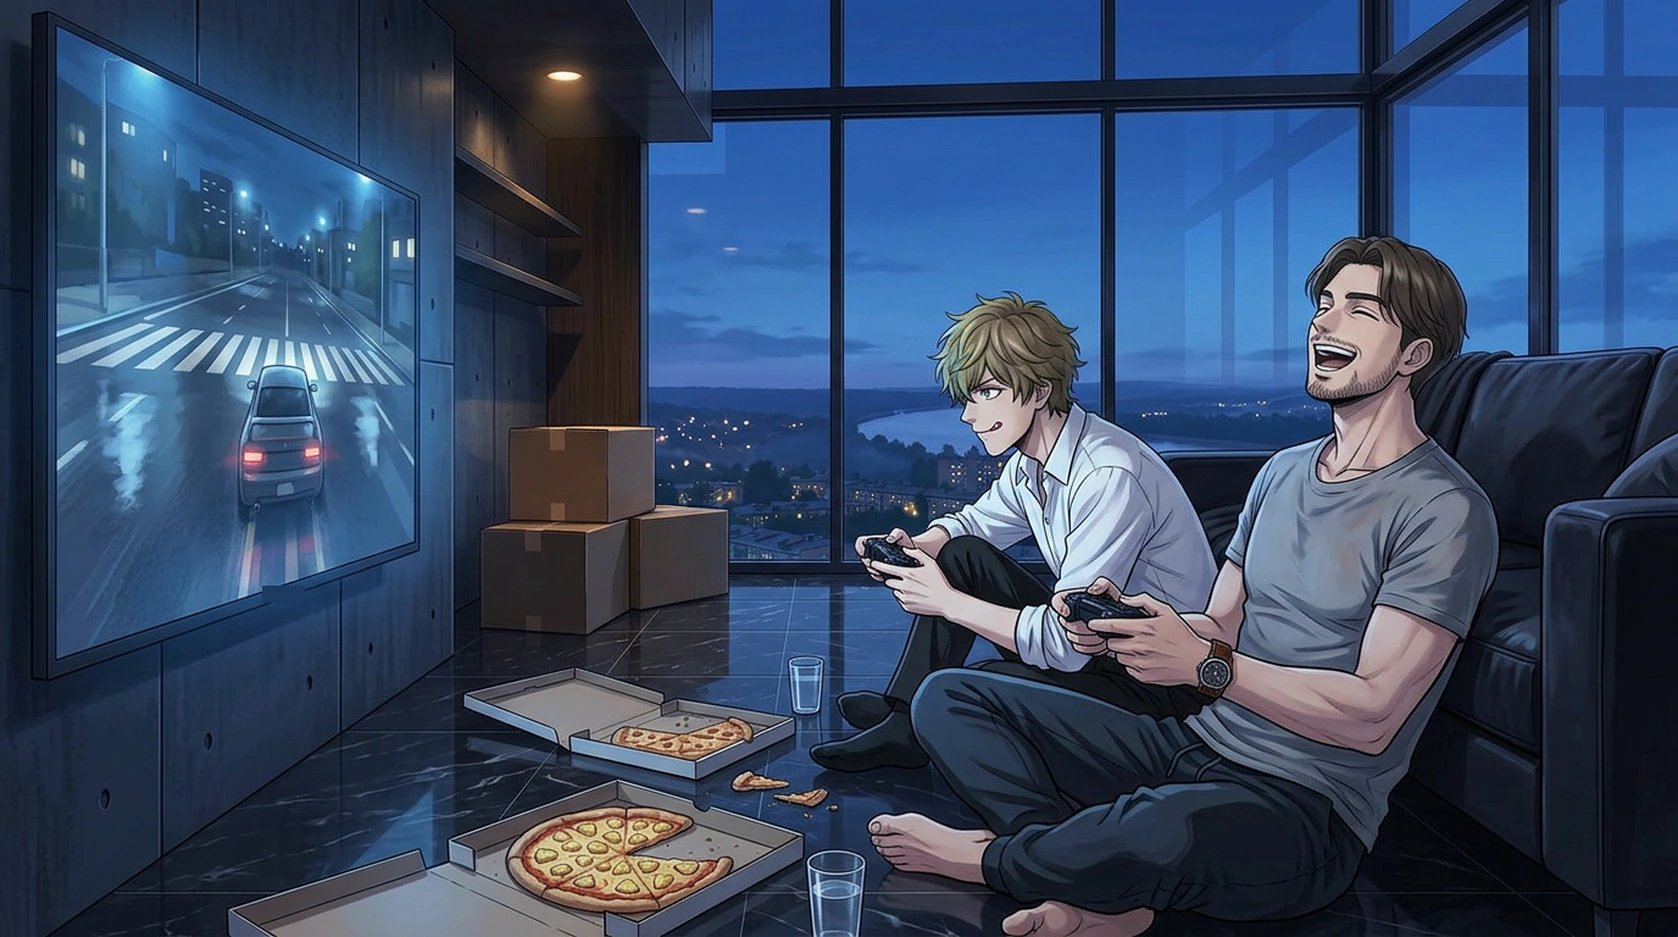
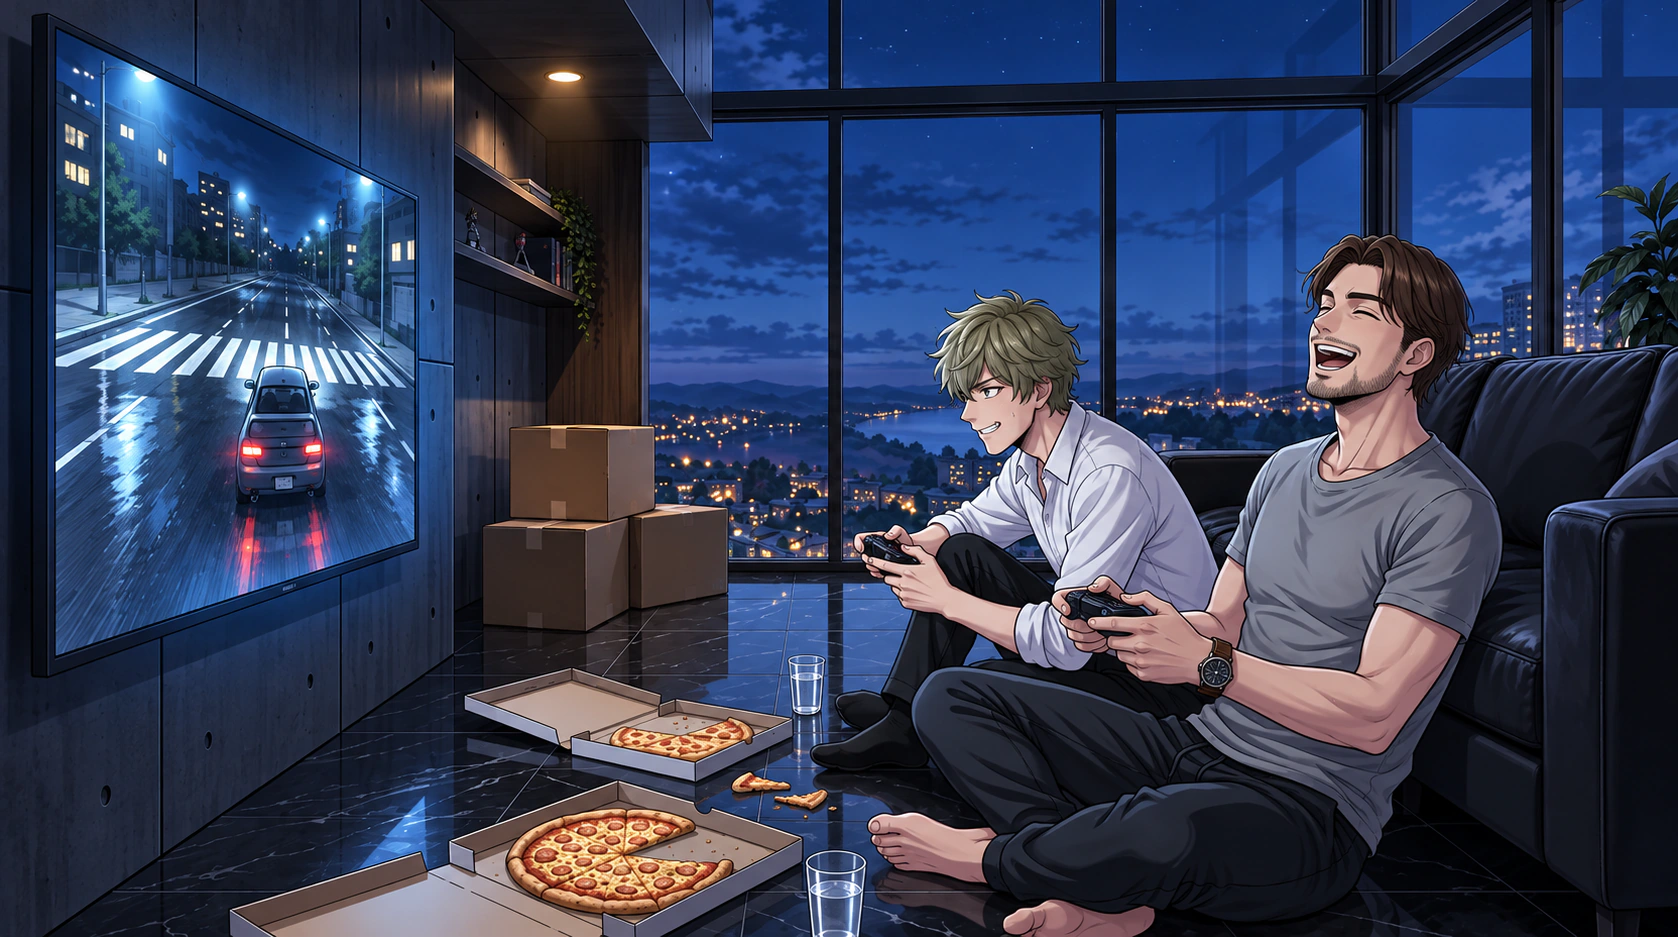
CG съёмки (День 4) и приставки у Артёма (День 5): финальные версии автора. ASSET_VER 20261103_59

diff --git a/index.html b/index.html
@@ -4,7 +4,7 @@
   <meta charset="UTF-8" />
   <meta name="viewport" content="width=device-width, initial-scale=1.0" />
   <title>Не смотри на небо</title>
-  <link rel="stylesheet" href="styles.css?v=20261103_58" />
+  <link rel="stylesheet" href="styles.css?v=20261103_59" />
 </head>
 <body>
   <div id="app">
@@ -16,7 +16,7 @@
           <feDisplacementMap in="SourceGraphic" in2="n" scale="2.2" xChannelSelector="R" yChannelSelector="G"/>
         </filter>
       </svg>
-      <img class="swag-logo-img" src="assets/ui/swag_logo.png?v=20261103_58" alt="$WAG Entertainment" draggable="false">
+      <img class="swag-logo-img" src="assets/ui/swag_logo.png?v=20261103_59" alt="$WAG Entertainment" draggable="false">
       <div class="swag-sub"><span class="swag-line"></span><span class="swag-star">✦</span><span class="swag-word">представляет</span><span class="swag-star">✦</span><span class="swag-line r"></span></div>
       <div class="swag-hint">Нажмите, чтобы пропустить</div>
     </div>
@@ -269,46 +269,46 @@
   </div>
 
   <!-- SCRIPT CHAPTERS -->
-  <script src="vn-config.js?v=20261103_58"></script>
-  <script src="vn-core.js?v=20261103_58"></script>
-  <script src="script/_registry.js?v=20261103_58"></script>
-  <script src="script/prologue_1_morning.js?v=20261103_58"></script>
-  <script src="script/prologue_2_city.js?v=20261103_58"></script>
-  <script src="script/prologue_3_barbershop.js?v=20261103_58"></script>
-  <script src="script/prologue_4_depot.js?v=20261103_58"></script>
-  <script src="script/prologue_5_crash.js?v=20261103_58"></script>
-  <script src="script/day1_1_mirael.js?v=20261103_58"></script>
-  <script src="script/day1_2_kitchen.js?v=20261103_58"></script>
-  <script src="script/day1_3_valeria.js?v=20261103_58"></script>
-  <script src="script/day1_4_bridge.js?v=20261103_58"></script>
-  <script src="script/day1_5_taya.js?v=20261103_58"></script>
-  <script src="script/day2_1_quit.js?v=20261103_58"></script>
-  <script src="script/day2_2_shift.js?v=20261103_58"></script>
-  <script src="script/day2_3_zero.js?v=20261103_58"></script>
-  <script src="script/day2_4_walk.js?v=20261103_58"></script>
-  <script src="script/day3_1_office.js?v=20261103_58"></script>
-  <script src="script/day3_2_nika.js?v=20261103_58"></script>
-  <script src="script/day3_3_books.js?v=20261103_58"></script>
-  <script src="script/day3_3_home.js?v=20261103_58"></script>
-  <script src="script/day3_4_nika_night.js?v=20261103_58"></script>
-  <script src="script/day4_1_free.js?v=20261103_58"></script>
-  <script src="script/day4_1b_film.js?v=20261103_58"></script>
-  <script src="script/day4_2_barbershop.js?v=20261103_58"></script>
-  <script src="script/day4_2b_cake.js?v=20261103_58"></script>
-  <script src="script/day4_3_cuckoo.js?v=20261103_58"></script>
-  <script src="script/day4_3_home.js?v=20261103_58"></script>
-  <script src="script/day5_0_bike.js?v=20261103_58"></script>
-  <script src="script/day5_0b_market.js?v=20261103_58"></script>
-  <script src="script/day5_1_artyom.js?v=20261103_58"></script>
-  <script src="script/day5_2_elevator.js?v=20261103_58"></script>
-  <script src="script/day5_3_night.js?v=20261103_58"></script>
-  <script src="script/day6_1_morning.js?v=20261103_58"></script>
-  <script src="script/day6_2_squeeze.js?v=20261103_58"></script>
-  <script src="script/day6_2b_bureau.js?v=20261103_58"></script>
-  <script src="script/day6_3_taya.js?v=20261103_58"></script>
-  <script src="script/day7_0_river.js?v=20261103_58"></script>
-  <script src="script/day7_1_voices.js?v=20261103_58"></script>
-  <script src="script/day7_2_stairs.js?v=20261103_58"></script>
-  <script src="engine.js?v=20261103_58"></script>
+  <script src="vn-config.js?v=20261103_59"></script>
+  <script src="vn-core.js?v=20261103_59"></script>
+  <script src="script/_registry.js?v=20261103_59"></script>
+  <script src="script/prologue_1_morning.js?v=20261103_59"></script>
+  <script src="script/prologue_2_city.js?v=20261103_59"></script>
+  <script src="script/prologue_3_barbershop.js?v=20261103_59"></script>
+  <script src="script/prologue_4_depot.js?v=20261103_59"></script>
+  <script src="script/prologue_5_crash.js?v=20261103_59"></script>
+  <script src="script/day1_1_mirael.js?v=20261103_59"></script>
+  <script src="script/day1_2_kitchen.js?v=20261103_59"></script>
+  <script src="script/day1_3_valeria.js?v=20261103_59"></script>
+  <script src="script/day1_4_bridge.js?v=20261103_59"></script>
+  <script src="script/day1_5_taya.js?v=20261103_59"></script>
+  <script src="script/day2_1_quit.js?v=20261103_59"></script>
+  <script src="script/day2_2_shift.js?v=20261103_59"></script>
+  <script src="script/day2_3_zero.js?v=20261103_59"></script>
+  <script src="script/day2_4_walk.js?v=20261103_59"></script>
+  <script src="script/day3_1_office.js?v=20261103_59"></script>
+  <script src="script/day3_2_nika.js?v=20261103_59"></script>
+  <script src="script/day3_3_books.js?v=20261103_59"></script>
+  <script src="script/day3_3_home.js?v=20261103_59"></script>
+  <script src="script/day3_4_nika_night.js?v=20261103_59"></script>
+  <script src="script/day4_1_free.js?v=20261103_59"></script>
+  <script src="script/day4_1b_film.js?v=20261103_59"></script>
+  <script src="script/day4_2_barbershop.js?v=20261103_59"></script>
+  <script src="script/day4_2b_cake.js?v=20261103_59"></script>
+  <script src="script/day4_3_cuckoo.js?v=20261103_59"></script>
+  <script src="script/day4_3_home.js?v=20261103_59"></script>
+  <script src="script/day5_0_bike.js?v=20261103_59"></script>
+  <script src="script/day5_0b_market.js?v=20261103_59"></script>
+  <script src="script/day5_1_artyom.js?v=20261103_59"></script>
+  <script src="script/day5_2_elevator.js?v=20261103_59"></script>
+  <script src="script/day5_3_night.js?v=20261103_59"></script>
+  <script src="script/day6_1_morning.js?v=20261103_59"></script>
+  <script src="script/day6_2_squeeze.js?v=20261103_59"></script>
+  <script src="script/day6_2b_bureau.js?v=20261103_59"></script>
+  <script src="script/day6_3_taya.js?v=20261103_59"></script>
+  <script src="script/day7_0_river.js?v=20261103_59"></script>
+  <script src="script/day7_1_voices.js?v=20261103_59"></script>
+  <script src="script/day7_2_stairs.js?v=20261103_59"></script>
+  <script src="engine.js?v=20261103_59"></script>
 </body>
 </html>

diff --git a/engine.js b/engine.js
@@ -1,6 +1,6 @@
 // ДВИЖОК ВИЗУАЛЬНОЙ НОВЕЛЛЫ «НЕ СМОТРИ НА НЕБО» ($WAG ENTERTAINMENT)
 (function () {
-  const ASSET_VER = "20261103_58";
+  const ASSET_VER = "20261103_59";
 
   function withVer(url) {
     if (!url) return "";

diff --git a/docs/production/assets.md b/docs/production/assets.md
@@ -248,8 +248,8 @@
 | `cg_d3_balcony_wings.webp` | Ночной балкон. Мира-ангел в дверях, две пары крыльев раскрыты, полотенце висит на крыле. Ника, которую только что втащили обратно, стоит у перил и смотрит на неё | day3_4_nika_night, с «Ника вцепилась в перила…» до «Мира не улыбнулась. Но крылья сложила…» |
 | `cg_d4_lemon.webp` | Вечерняя кухня, вид с места Саши. Мира в человеческом облике, в Дашином платье, кусает половинку лимона, лицо сморщено. На столе макароны с сосисками и мамина тетрадь с ручкой | day4_3_home, «После ужина Саша разрезал лимон» и «Лицо у неё сделалось ровно то самое» |
 | `cg_d5_lilac_crash.webp` | Утро на тихой улице. Мира в человеческом облике сидит в кусте сирени, скрестив руки, лицо оскорблённое; велосипед лежит на боку, Саша бежит к ней | day5_0_bike, с «Саша добежал…» до «Отец тоже отпустил…» |
-| `cg_d4_foil_headlights.webp` | Студенческая съёмка на набережной в полдень: режиссёр в панаме с разделочной доской, камера на треноге, конусы, Петя (долговязый, черноволосый, в очках и чужой зелёной курьерской куртке, без короба) на велосипеде, бежевая легковушка, парень с «журавлём» из швабры бьёт фольгой солнце Пете в лицо. Саша в рубашке, с бинтами на ладонях, стоит у конусов со своим велосипедом и смотрит на дубль. Без дождевика и короба: он больше не курьер (сгенерирован 03.11, переделан по замечанию автора, ждёт доводки) | day4_1b_film, три узла от «поймал солнце куском фольги» до «Саша смотрел на фольгу» |
-| `cg_d5_console.webp` | Вечер в квартире Артёма: Саша и Артём на полу у чёрного дивана с джойстиками, экран во всю стену с ночными гонками и зеброй, две коробки пиццы (одна с ананасами), за панорамным окном река и огни. Артём в домашнем: растянутая серая футболка, треники, босиком, часы на левой руке (сгенерирован 03.11, ждёт доводки автора) | day5_1_artyom, от «Экран во всю стену наконец пригодился» до «Хорошо, что ждут» |
+| `cg_d4_foil_headlights.webp` | Студенческая съёмка на набережной в полдень: режиссёр в панаме с разделочной доской, камера на треноге, конусы, Петя (долговязый, черноволосый, в очках и чужой зелёной курьерской куртке, без короба) на велосипеде, бежевая легковушка, парень с «журавлём» из швабры бьёт фольгой солнце Пете в лицо. Саша в рубашке, с бинтами на ладонях, стоит у конусов со своим велосипедом и смотрит на дубль. Без дождевика и короба: он больше не курьер. Финал автора 03.11 (`filming.png`) | day4_1b_film, три узла от «поймал солнце куском фольги» до «Саша смотрел на фольгу» |
+| `cg_d5_console.webp` | Вечер в квартире Артёма: Саша и Артём на полу у чёрного дивана с джойстиками, экран во всю стену с ночными гонками и зеброй, две коробки пиццы, одна почти пустая (по тексту первой доели ананасовую), за панорамным окном река и огни. Артём в домашнем: серая футболка, треники, босиком, часы на левой руке. Финал автора 03.11 (`artem_alex_playing.png`) | day5_1_artyom, от «Экран во всю стену наконец пригодился» до «Хорошо, что ждут» |
 | `cg_d5_mirror_lift.webp` | Застрявший лифт. Ника сидит на полу у зеркальной стенки, обняв папку, Саша стоит; в зеркалах одни Саши, на табло красный прочерк | day5_2_elevator, с «Ника сползла по зеркальной стенке…» до «Ждите.» |
 
 ### Лист устава на латыни (03.11, идея автора)

diff --git a/art/cg_drafts/README.md b/art/cg_drafts/README.md
@@ -18,8 +18,10 @@
 | `cg_d4_lemon.webp` | `mirael_lemon.png` | day4_3_home · «После ужина Саша разрезал лимон» и «Лицо у неё сделалось ровно то самое». Реплика про крылья отделена и идёт уже со спрайтом ангела |
 | `cg_d5_lilac_crash.webp` | `mirael_fall.png` | day5_0_bike · с «Саша добежал…» до «Отец тоже отпустил…» |
 | `cg_d5_mirror_lift.webp` | `alex_nika_elevator.png` | day5_2_elevator · с «Ника сползла по зеркальной стенке…» до «Ждите.» Вокруг CG фон кабины `bg_elevator_glitch`: от остановки лифта до кнопки «—» |
+| `cg_d4_foil_headlights.webp` | `filming.png` | day4_1b_film · с «Парень с микрофоном на палке от швабры поймал солнце…» до «Саша смотрел на фольгу». Петя черноволосый, в очках и зелёной куртке; Саша в рубашке и с бинтами стоит со своим велосипедом |
+| `cg_d5_console.webp` | `artem_alex_playing.png` | day5_1_artyom · с «Экран во всю стену наконец пригодился» до «Хорошо, что ждут». Единственный CG с Артёмом, по просьбе автора |
 
-Черновики этих четырёх удалены, финалы лежат в `assets/backgrounds/`. Исходные PNG автора остались в истории git: `git checkout 0dbbaab -- assets/backgrounds/<id>.png`.
+Черновики первых четырёх удалены, финалы лежат в `assets/backgrounds/`. Исходные PNG автора остались в истории git: `git checkout 0dbbaab -- assets/backgrounds/<id>.png`.
 
 ## Черновики, которые автор пока не брал
 
@@ -31,12 +33,12 @@
 
 ## В очереди
 
-`cg_d3_curb_problem`, `cg_d4_foil_headlights`, `cg_d4_cuckoo`, `cg_d6_haircut`, `cg_d7_river_lev`, `cg_d7_chrysanthemums`, `cg_d7_thermos_step`, `cg_d7_mira_door`, `cg_d7_valeria_chess`, `cg_d7_lena_awning_storm`, `cg_d7_taya_midnight`.
+`cg_d3_curb_problem`, `cg_d4_cuckoo`, `cg_d6_haircut`, `cg_d7_river_lev`, `cg_d7_chrysanthemums`, `cg_d7_thermos_step`, `cg_d7_mira_door`, `cg_d7_valeria_chess`, `cg_d7_lena_awning_storm`, `cg_d7_taya_midnight`.
 
 ## Что держать в кадре
 
 - Облик Миры берётся по спрайту на соседних узлах. С крыльями она в своём длинном белом платье с открытыми плечами, как на спрайте ангела и в `cg_first_coffee`, крыльев две пары. В Дашином платье с голубой лентой она только в человеческом облике, без крыльев.
 - Уши у Миры заострённые в обоих обликах, как на спрайтах. В человеческом облике их можно спрятать под волосы (`cg_river_walk`, `cg_d4_lemon`) или оставить на виду (`cg_d5_lilac_crash`).
 - Ника не отражается в зеркалах.
-- Артёма в кадре нет. Машины в кадре без марки и узнаваемых деталей, чтобы их нельзя было принять за улику.
+- Артёма в кадре нет. Исключение одно, `cg_d5_console`: автор сам попросил Артёма в домашнем. Машины в кадре без марки и узнаваемых деталей, чтобы их нельзя было принять за улику.
 - Перед сдачей каждую картинку смотреть крупно: лица, руки, перспективу, сезон (июль), соответствие тексту узла.
